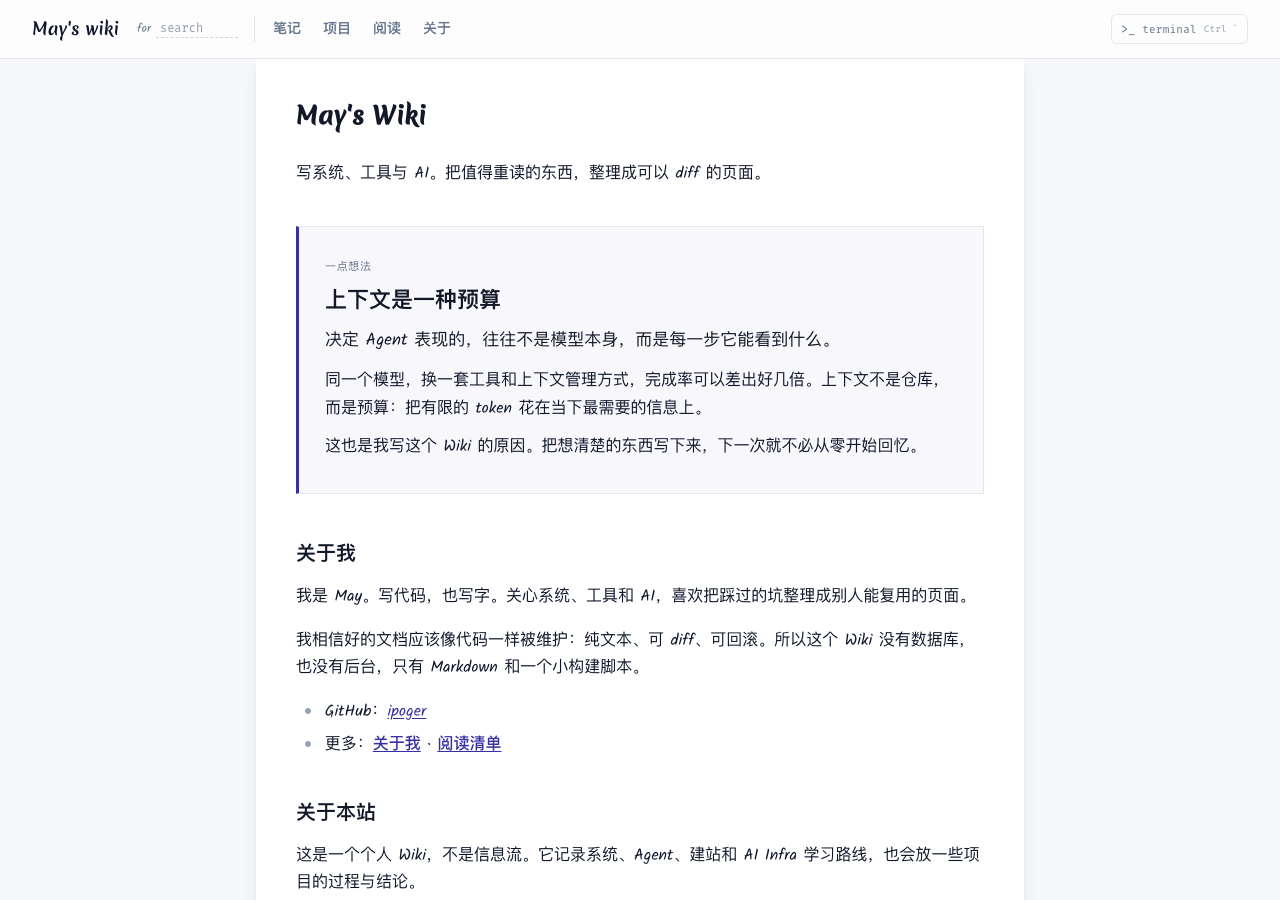
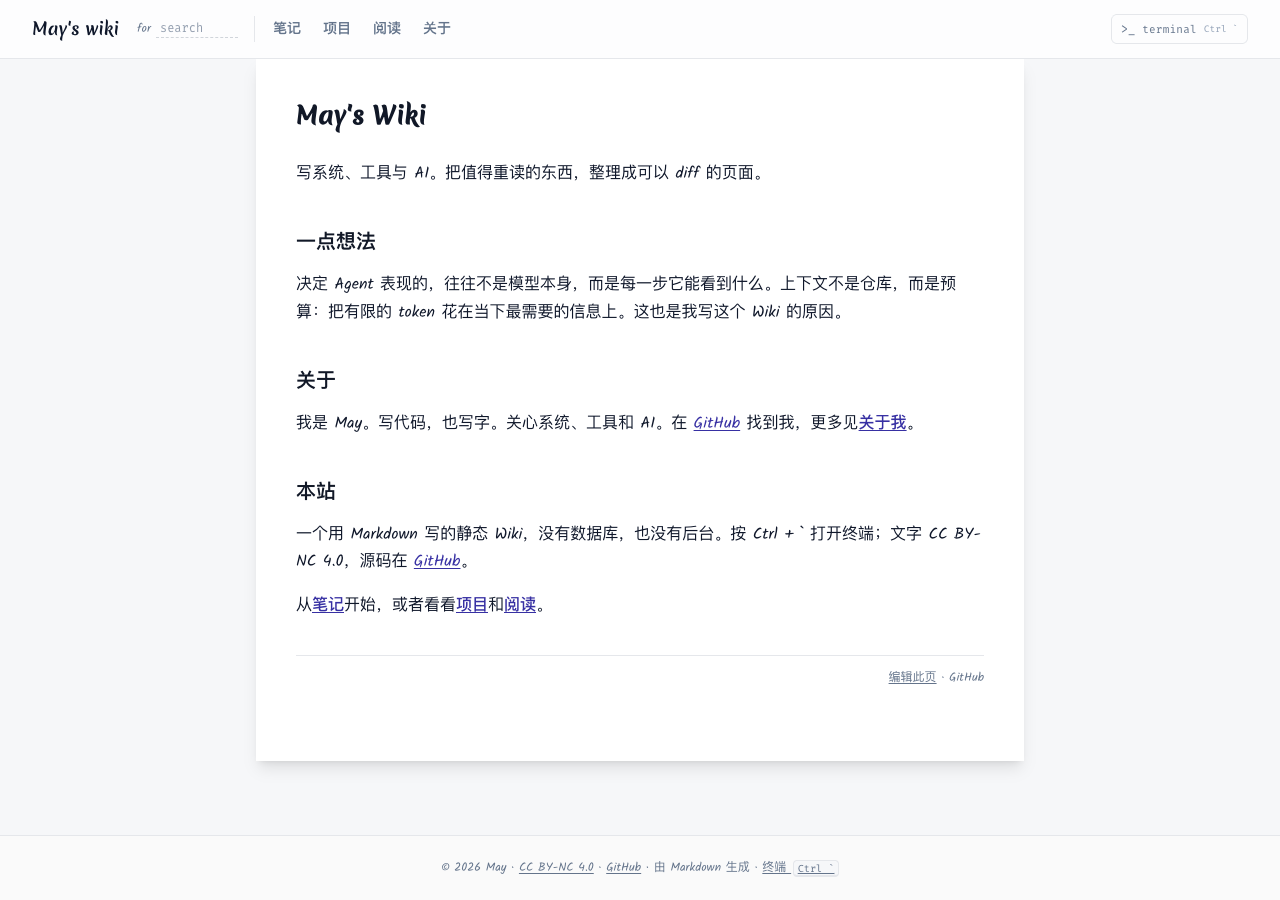
Simplify the homepage to three short sections

diff --git a/public/assets/style.css b/public/assets/style.css
@@ -736,53 +736,6 @@ body.terminal-open { overflow: hidden; }
 }
 .wiki .page-edit a:hover { color: var(--link); }
 
-/* ---------- home ---------- */
-
-.home-featured {
-  margin: 2.4em 0 2.8em;
-  padding: 24px 26px 22px;
-  border: 1px solid var(--border);
-  border-left: 3px solid var(--link);
-  background: color-mix(in srgb, var(--link) 3.5%, transparent);
-}
-
-.home-kicker {
-  margin: 0;
-  color: var(--muted);
-  font-family: var(--font-mono);
-  font-size: 11px;
-  letter-spacing: 0.06em;
-}
-
-.home-featured h2 {
-  margin: 0.35em 0 0.55em;
-  font-size: 22px;
-  line-height: 1.35;
-}
-.home-featured h2 a {
-  color: var(--heading);
-  text-decoration: none;
-}
-.home-featured h2 a:hover { color: var(--link); }
-
-.home-lede {
-  margin: 0 0 0.6em;
-  color: var(--heading);
-  font-size: 17px;
-}
-
-.home-featured p { margin: 0.7em 0; }
-.home-more { margin: 1em 0 0 !important; font-size: 13px; }
-
-@media (max-width: 640px) {
-  .home-featured {
-    padding: 18px 18px 16px;
-    margin: 1.8em 0 2.2em;
-  }
-  .home-featured h2 { font-size: 20px; }
-  .home-lede { font-size: 16px; }
-}
-
 /* ---------- reading citations ---------- */
 
 .reading-page .wiki { counter-reset: cite; }

diff --git a/content/index.md b/content/index.md
@@ -7,31 +7,16 @@ description: May 的个人 Wiki：系统、工具与 AI 的笔记。
 
 写系统、工具与 AI。把值得重读的东西，整理成可以 diff 的页面。
 
-<section class="home-featured">
-  <p class="home-kicker">一点想法</p>
-  <h2>上下文是一种预算</h2>
-  <p class="home-lede">决定 Agent 表现的，往往不是模型本身，而是每一步它能看到什么。</p>
-  <p>同一个模型，换一套工具和上下文管理方式，完成率可以差出好几倍。上下文不是仓库，而是预算：把有限的 token 花在当下最需要的信息上。</p>
-  <p>这也是我写这个 Wiki 的原因。把想清楚的东西写下来，下一次就不必从零开始回忆。</p>
-</section>
+## 一点想法
 
-## 关于我
+决定 Agent 表现的，往往不是模型本身，而是每一步它能看到什么。上下文不是仓库，而是预算：把有限的 token 花在当下最需要的信息上。这也是我写这个 Wiki 的原因。
 
-我是 May。写代码，也写字。关心系统、工具和 AI，喜欢把踩过的坑整理成别人能复用的页面。
+## 关于
 
-我相信好的文档应该像代码一样被维护：纯文本、可 diff、可回滚。所以这个 Wiki 没有数据库，也没有后台，只有 Markdown 和一个小构建脚本。
+我是 May。写代码，也写字。关心系统、工具和 AI。在 [GitHub](https://github.com/ipoger) 找到我，更多见[关于我](about.md)。
 
-- GitHub：[ipoger](https://github.com/ipoger)
-- 更多：[关于我](about.md) · [阅读清单](reading/index.md)
+## 本站
 
-## 关于本站
+一个用 Markdown 写的静态 Wiki，没有数据库，也没有后台。按 Ctrl + \` 打开终端；文字 CC BY-NC 4.0，源码在 [GitHub](https://github.com/ipoger/wiki)。
 
-这是一个个人 Wiki，不是信息流。它记录系统、Agent、建站和 AI Infra 学习路线，也会放一些项目的过程与结论。
-
-- **写作**：Markdown 写在 `content/`，一个文件就是一页，支持公式、代码高亮和表格。
-- **构建**：几百行 Node 脚本生成静态 HTML，没有数据库和运行时。
-- **查找**：站内搜索，或按 Ctrl + \` 打开终端，用 `ls` / `cd` / `cat` 浏览。
-- **发布**：push 到 GitHub，Actions 自动部署到 Pages。
-- **源码**：[ipoger/wiki](https://github.com/ipoger/wiki)。文字 CC BY-NC 4.0，代码 MIT。
-
-更多入口：[全部笔记](notes/index.md) · [项目](projects/index.md) · [AI Infra 学习路线](projects/ai-infra-study/index.md)
+从[笔记](notes/)开始，或者看看[项目](projects/)和[阅读](reading/)。
